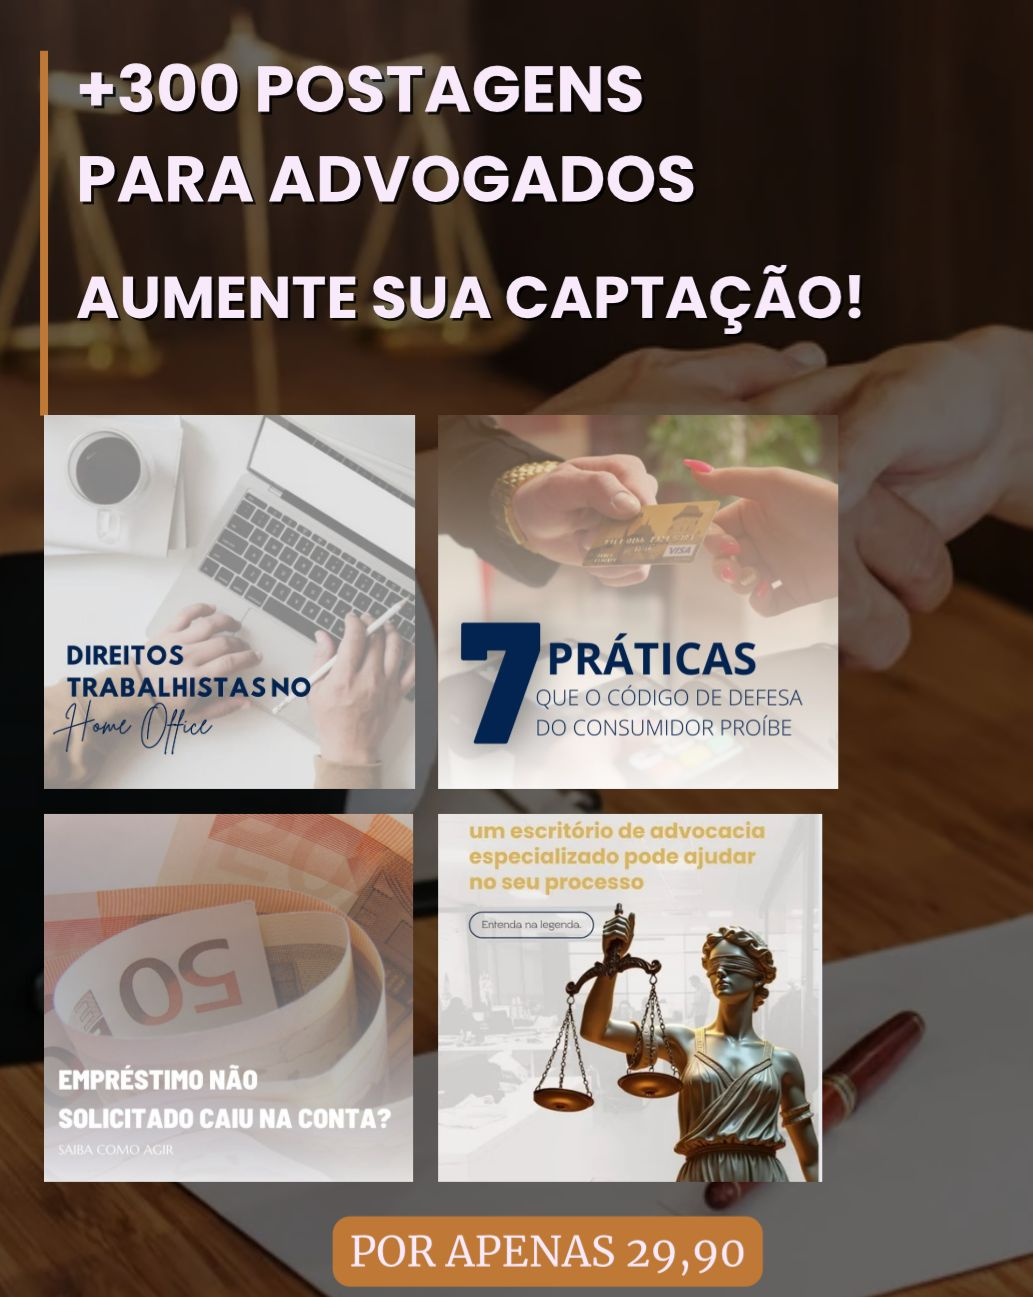
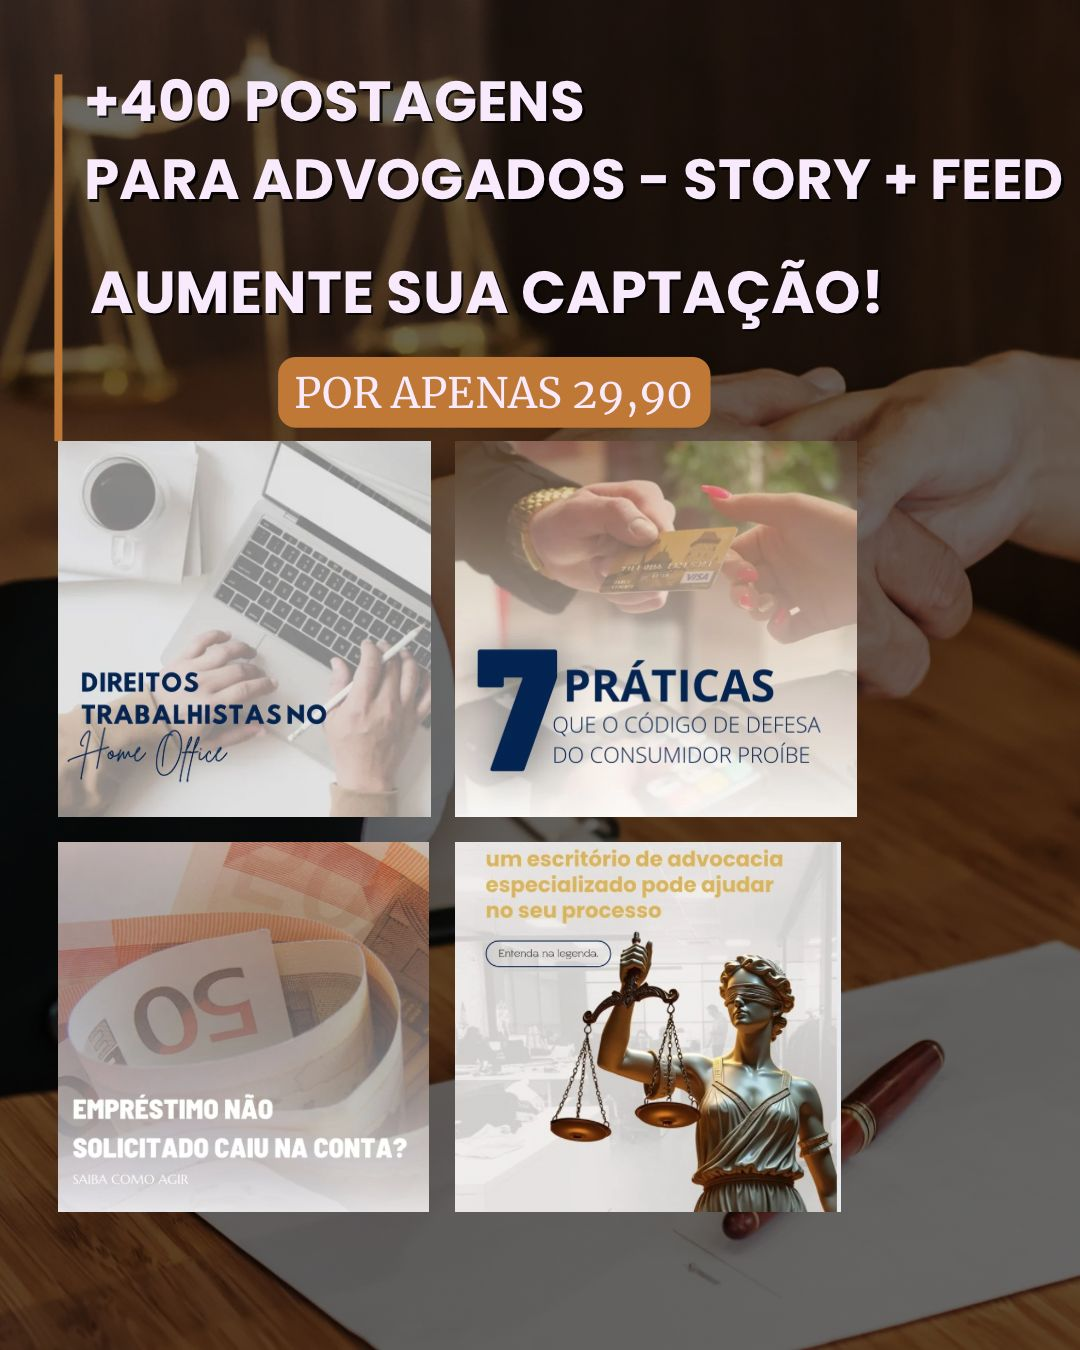
Ultima Atualização

Changed region(s): [[0.0, 0.0, 1.0, 1.0], [0.8674, 0.2467, 1.0, 0.2776], [0.8674, 0.3701, 0.8984, 0.4009]]

diff --git a/index.html b/index.html
@@ -40,9 +40,9 @@
     <!-- HERO SECTION -->
     <section class="hero" id="hero">
       <div>
-        <h2>+300 Posts Profissionais<br>para Advogados e Escritórios</h2>
+        <h2>+400 Posts Profissionais<br>para Advogados e Escritórios</h2>
         <p>Transforme sua presença digital com conteúdos prontos, editáveis e pensados para gerar autoridade e captar clientes. <strong>Oferta exclusiva por tempo limitado!</strong></p>
-        <a class="cta" href="#contato">Quero Receber Proposta</a>
+        <a class="cta" href="https://pay.kirvano.com/c9adfd78-882f-4e48-b169-eba5efa7eac7">Garanta Já</a>
         <ul class="hero-list">
           <li>Conteúdo validado por especialistas jurídicos</li>
           <li>Identidade visual profissional e personalizada</li>
@@ -52,9 +52,10 @@
           <span>Restam poucas vagas para o pacote especial!</span>
         </div>
       </div>
-      <div class="preview">
-        <img src="Imagens/capa.jpeg" alt="Preview dos posts para advogados" loading="lazy">
-      </div>
+ <div class="preview">
+  <img src="Imagens/capa.jpeg" alt="Preview dos posts para advogados" loading="lazy">
+</div>
+
     </section>
 
     <!-- BENEFÍCIOS -->
@@ -76,26 +77,20 @@
     <!-- PROVA SOCIAL / DEPOIMENTOS -->
     <section id="prova-social" style="margin:48px 0;">
       <h3 style="text-align:center;color:var(--accent-dark);margin-bottom:24px;">O que dizem nossos clientes</h3>
-      <div class="depoimentos" style="display:grid;grid-template-columns:repeat(auto-fit,minmax(280px,1fr));gap:24px;">
-        <div class="depoimento-card" style="background:#fff;border-radius:12px;padding:18px;box-shadow:0 2px 12px rgba(184,137,100,0.07);border:1px solid var(--muted);display:flex;flex-direction:column;align-items:center;">
-          <img src="Imagens/depoimentos1.jpg" alt="Depoimento cliente 1" style="width:70px;height:70px;border-radius:50%;object-fit:cover;margin-bottom:12px;">
-          <p style="font-size:16px;color:#333;text-align:center;">“Os posts prontos da NexTI One facilitaram minha rotina e aumentaram o engajamento do meu escritório!”</p>
-          <footer style="margin-top:8px;color:#8c6a4a;font-weight:600;">Dra. Juliana, Advogada</footer>
+      <div class="depoimentos">
+        <div class="depoimento-img">
+          <img src="Imagens/depoimento1.jpeg" alt="Depoimento cliente 1">
         </div>
-        <div class="depoimento-card" style="background:#fff;border-radius:12px;padding:18px;box-shadow:0 2px 12px rgba(184,137,100,0.07);border:1px solid var(--muted);display:flex;flex-direction:column;align-items:center;">
-          <img src="Imagens/depoimentos2.jpg" alt="Depoimento cliente 2" style="width:70px;height:70px;border-radius:50%;object-fit:cover;margin-bottom:12px;">
-          <p style="font-size:16px;color:#333;text-align:center;">“A qualidade visual e os roteiros para reels realmente fazem diferença na captação de clientes.”</p>
-          <footer style="margin-top:8px;color:#8c6a4a;font-weight:600;">Dr. Rafael, Escritório Trabalhista</footer>
+        <div class="depoimento-img">
+          <img src="Imagens/depoimento2.jpeg" alt="Depoimento cliente 2">
         </div>
-        <div class="depoimento-card" style="background:#fff;border-radius:12px;padding:18px;box-shadow:0 2px 12px rgba(184,137,100,0.07);border:1px solid var(--muted);display:flex;flex-direction:column;align-items:center;">
-          <img src="Imagens/depoimentos3.jpg" alt="Depoimento cliente 3" style="width:70px;height:70px;border-radius:50%;object-fit:cover;margin-bottom:12px;">
-          <p style="font-size:16px;color:#333;text-align:center;">“O suporte da equipe NexTI One foi essencial para adaptar os posts à identidade do meu escritório.”</p>
-          <footer style="margin-top:8px;color:#8c6a4a;font-weight:600;">Dra. Fernanda, Direito Civil</footer>
+        <div class="depoimento-img">
+          <img src="Imagens/depoimento3.jpeg" alt="Depoimento cliente 3">
         </div>
-        <div class="depoimento-card" style="background:#fff;border-radius:12px;padding:18px;box-shadow:0 2px 12px rgba(184,137,100,0.07);border:1px solid var(--muted);display:flex;flex-direction:column;align-items:center;">
-          <img src="Imagens/depoimentos4.jpg" alt="Depoimento cliente 4" style="width:70px;height:70px;border-radius:50%;object-fit:cover;margin-bottom:12px;">
-          <p style="font-size:16px;color:#333;text-align:center;">“Recomendo para todos os advogados que querem profissionalizar o marketing digital!”</p>
-          <footer style="margin-top:8px;color:#8c6a4a;font-weight:600;">Dr. Lucas, Direito Previdenciário</footer>
+      </div>
+      <div class="depoimento-central">
+        <div class="depoimento-img">
+          <img src="Imagens/depoimento4.jpeg" alt="Depoimento cliente 4">
         </div>
       </div>
     </section>
@@ -109,7 +104,7 @@
         <img src="Imagens/WhatsApp Image 2025-08-11 at 22.34.09.jpeg" alt="Exemplo de post jurídico 3" loading="lazy">
       </div>
       <div style="text-align:center;margin-top:18px;">
-        <a class="cta" href="#contato">Quero Receber os Modelos</a>
+        <a class="cta" href="https://pay.kirvano.com/c9adfd78-882f-4e48-b169-eba5efa7eac7">Garanta Já</a>
       </div>
     </section>
 
@@ -124,13 +119,8 @@
         <input id="email" placeholder="E-mail" type="email" required style="padding:14px;border-radius:8px;border:1px solid #e6e1df;font-size:16px;background:var(--muted);">
         <input id="telefone" placeholder="Telefone / WhatsApp" required style="padding:14px;border-radius:8px;border:1px solid #e6e1df;font-size:16px;background:var(--muted);">
         <textarea id="mensagem" placeholder="Mensagem" rows="4" style="padding:14px;border-radius:8px;border:1px solid #e6e1df;font-size:16px;background:var(--muted);"></textarea>
-        <button type="submit" style="padding:14px;border-radius:8px;border:0;background:linear-gradient(90deg, var(--accent) 60%, var(--accent-dark) 100%);color:#fff;font-size:18px;font-weight:600;cursor:pointer;">Enviar</button>
+        <button type="submit" style="padding:14px;border-radius:8px;border:0;background:linear-gradient(90deg, var(--accent) 60%, var(--accent-dark) 100%);color:#fff;font-size:18px;font-weight:600;cursor:pointer;">Fale Conosco</button>
       </form>
-      <div style="text-align:center;margin-top:18px;">
-        <a href="https://wa.me/5512988683920" target="_blank" rel="noopener noreferrer" style="color:var(--accent-dark);font-weight:600;text-decoration:none;font-size:16px;">
-          Ou fale direto pelo WhatsApp
-        </a>
-      </div>
     </section>
 
     <!-- RODAPÉ DIFERENCIADO -->

diff --git a/style.css b/style.css
@@ -208,14 +208,29 @@ nav a:focus::after {
   align-items: center;
   justify-content: center;
   height: 320px;
+  width: 100%;
+  max-width: 420px;
+  margin: 0 auto;
 }
 
 .preview img {
-  width: 100%;
-  height: 100%;
+  max-width: 100%;
+  max-height: 100%;
   object-fit: contain;
   display: block;
-  background: var(--muted);
+}
+
+/* Ajuste para celular */
+@media (max-width: 768px) {
+  .preview {
+    height: auto; /* altura automática */
+    max-width: 100%;
+  }
+
+  .preview img {
+    width: 100%;
+    height: auto;
+  }
 }
 
 .features {
@@ -371,32 +386,75 @@ footer strong {
   box-shadow: 0 4px 16px rgba(184,137,100,0.15);
 }
 
+/* Depoimentos apenas imagem - visualização aprimorada */
+.depoimentos {
+  display: flex;
+  gap: 40px;
+  justify-content: center;
+  align-items: flex-end;
+  flex-wrap: wrap;
+  margin-bottom: 0;
+}
+
+.depoimento-img {
+  background: linear-gradient(135deg, #f5f2f0 60%, #e9e3db 100%);
+  border-radius: 16px;
+  box-shadow: 0 8px 32px rgba(184,137,100,0.13), 0 2px 12px rgba(184,137,100,0.10);
+  padding: 0;
+  display: flex;
+  align-items: center;
+  justify-content: center;
+  transition: box-shadow .2s, transform .2s;
+  width: 220px;   /* Ampliado */
+  height: 160px;  /* Mantido */
+  overflow: hidden;
+}
+
+.depoimento-img img {
+  width: 100%;
+  height: 100%;
+  border-radius: 16px;
+  object-fit: cover;
+  display: block;
+  border: 3px solid var(--accent);
+  box-shadow: 0 2px 12px rgba(184,137,100,0.10);
+  background: var(--muted);
+  transition: transform .2s;
+}
+
+.depoimento-img:hover,
+.depoimento-img:focus {
+  box-shadow: 0 16px 48px rgba(184,137,100,0.18), 0 2px 12px rgba(184,137,100,0.10);
+  transform: translateY(-6px) scale(1.07);
+}
+
+.depoimento-img img:hover,
+.depoimento-img img:focus {
+  transform: scale(1.08);
+}
+
+.depoimento-central {
+  display: flex;
+  justify-content: center;
+  margin-top: 32px;
+}
+
+.depoimento-central .depoimento-img {
+  width: 260px;  /* Ampliado */
+  height: 180px;
+  padding: 0;
+}
+
 /* Responsivo */
 @media(max-width:900px){
-  .container {padding: 16px;}
-  .hero {grid-template-columns:1fr; padding: 32px 0;}
-  .gallery {grid-template-columns:1fr 1fr;}
-  .features {grid-template-columns:1fr;}
-  .brand h1 {font-size:18px;}
-  .preview {height: 220px;}
-  .gallery img {height: 180px;}
-  #contato {padding: 24px 8px;}
-  .navbar-content {padding: 0 12px; min-height: 70px;}
-  .brand h1 {font-size:20px;}
-  .brand img {width: 56px; height: 56px;}
-  nav a {font-size: 16px;}
-  nav {gap: 18px;}
+  .depoimento-img {width: 150px; height: 110px;}
+  .depoimento-img img {border-radius: 12px;}
+  .depoimento-central .depoimento-img {width: 180px; height: 130px;}
 }
 
 @media(max-width:600px){
-  .gallery {grid-template-columns:1fr;}
-  .features {padding: 24px 0;}
-  .preview {height: 140px;}
-  .brand img {width: 60px; height: 60px;}
-  .navbar-content {flex-direction: column; align-items: flex-start; gap: 8px;}
-  .brand {gap: 10px;}
-  .brand img {width: 40px; height: 40px;}
-  .brand h1 {font-size: 16px;}
-  nav {gap: 10px;}
-  nav a {font-size: 14px;}
+  .depoimento-img {width: 90px; height: 70px;}
+  .depoimento-img img {border-radius: 8px;}
+  .depoimento-central {margin-top: 18px;}
+  .depoimento-central .depoimento-img {width: 80px; height: 80px;}
 }
